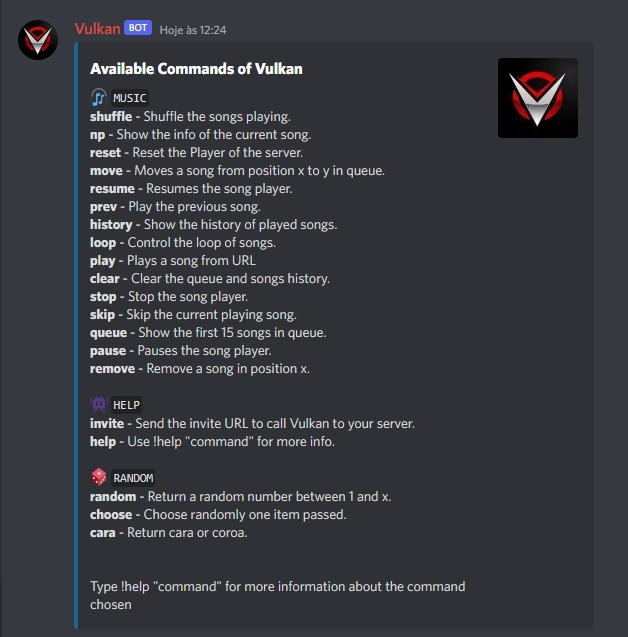
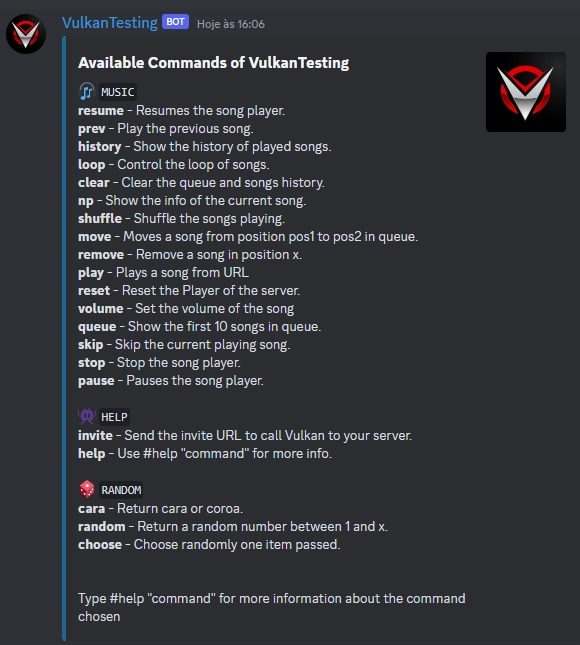
Upgrading documentation

Changed region(s): [[0.0, 0.0, 0.8069, 1.0], [0.7759, 0.0597, 0.9931, 0.2386]]

diff --git a/Config/Helper.py b/Config/Helper.py
@@ -29,9 +29,9 @@ class Helper(Singleton):
             self.HELP_PREV_LONG = 'Play the previous song. If playing, the current song will return to queue.\n\nRequire: Loop to be disable.\nArguments: None.'
             self.HELP_SHUFFLE = 'Shuffle the songs playing.'
             self.HELP_SHUFFLE_LONG = 'Randomly shuffle the songs in the queue.\n\nArguments: None.'
-            self.HELP_PLAY = 'Plays a song from URL'
-            self.CHANGE_VOLUME = '**[Pre-release]** - Set the volume of the song'
-            self.CHANGE_VOLUME_LONG = '**[Pre-release]** - Change the volume of the song, expect a number from 0 to 100'
+            self.HELP_PLAY = 'Plays a song from URL.'
+            self.CHANGE_VOLUME = 'Set the volume of the song.'
+            self.CHANGE_VOLUME_LONG = 'Change the volume of the song, expect a number from 0 to 100.'
             self.HELP_PLAY_LONG = 'Play a song in discord. \n\nRequire: You to be connected to a voice channel.\nArguments: Youtube, Spotify or Deezer song/playlist link or the title of the song to be searched in Youtube.'
             self.HELP_HISTORY = f'Show the history of played songs.'
             self.HELP_HISTORY_LONG = f'Show the last {config.MAX_SONGS_HISTORY} played songs'

diff --git a/Config/Configs.py b/Config/Configs.py
@@ -1,5 +1,4 @@
 import os
-
 from dotenv import load_dotenv
 from Config.Singleton import Singleton
 from Config.Folder import Folder
@@ -35,10 +34,10 @@ class VConfigs(Singleton):
             self.SPOTIFY_ID = os.getenv('SPOTIFY_ID')
             self.SPOTIFY_SECRET = os.getenv('SPOTIFY_SECRET')
             
-            if self.SPOTIFY_ID =="Your_Own_Spotify_ID":
+            if self.SPOTIFY_ID == "Your_Own_Spotify_ID":
                 self.SPOTIFY_ID = None
             
-            if self.SPOTIFY_SECRET =="Your_Own_Spotify_Secret":
+            if self.SPOTIFY_SECRET == "Your_Own_Spotify_Secret":
                 self.SPOTIFY_SECRET = None
             
             if self.SPOTIFY_ID is None or self.SPOTIFY_SECRET is None:

diff --git a/Config/Messages.py b/Config/Messages.py
@@ -16,7 +16,7 @@ class Messages(Singleton):
             self.SONGINFO_REQUESTER = 'Requester: '
             self.SONGINFO_POSITION = 'Position: '
 
-            self.VOLUME_CHANGED = '**[Pre-release]** - Song volume changed to `{}`%'
+            self.VOLUME_CHANGED = 'Song volume changed to `{}`%'
             self.SONGS_ADDED = 'Downloading `{}` songs to add to the queue'
             self.SONG_ADDED = 'Downloading the song `{}` to add to the queue'
             self.SONG_ADDED_TWO = f'{self.__emojis.MUSIC} Song added to the queue'

diff --git a/README.md b/README.md
@@ -18,6 +18,7 @@ Vulkan uses multiprocessing and asynchronous Python modules to maximize Music Pl
 - Support for the new Discord Slash commands.
 - Search for all musics in Queue using buttons.
 - Shortcut the playing of one song using dropdown menu.
+- Manage the volume of the songs.
 - Manage the loop of one or all playing musics.
 - Manage the order and remove musics from the queue.
 - Shuffle the musics queue order.
